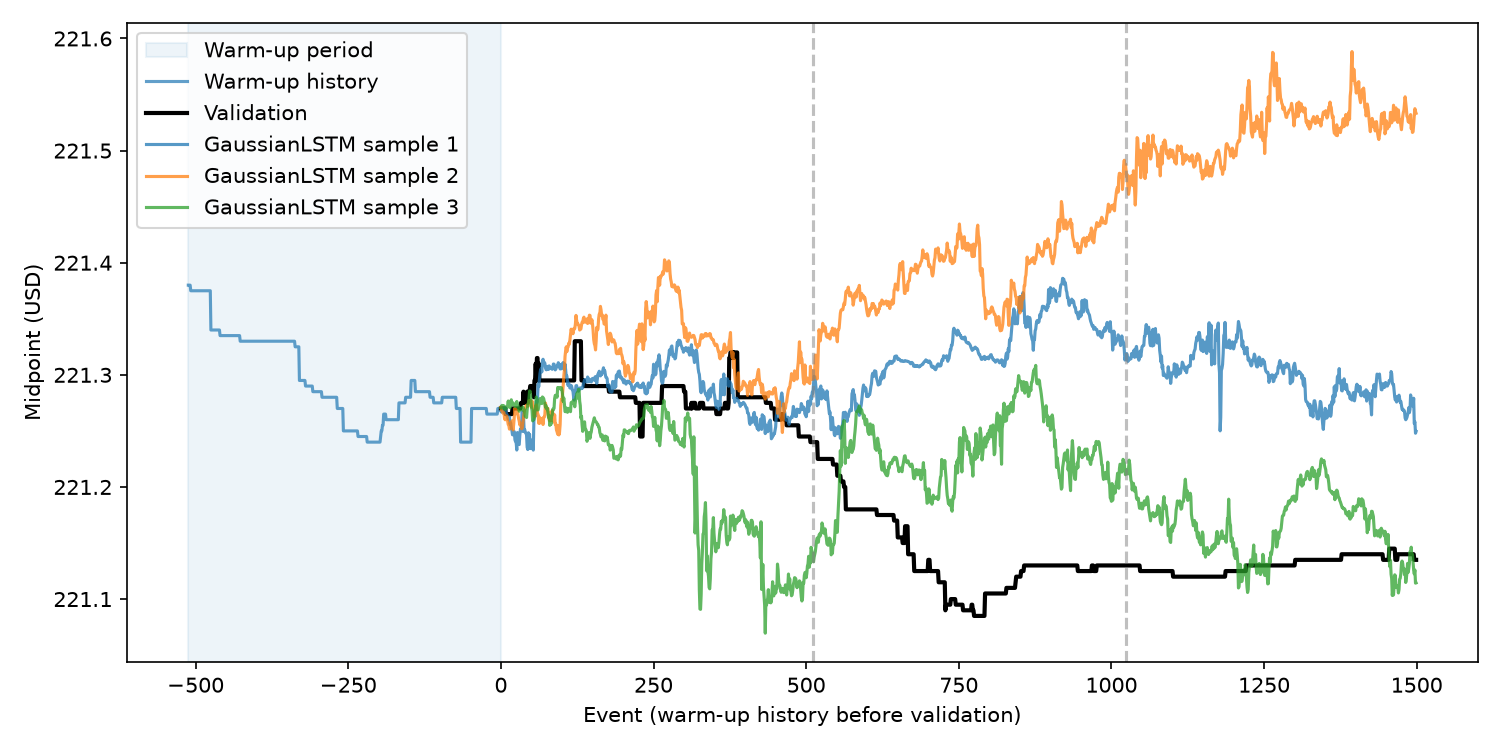
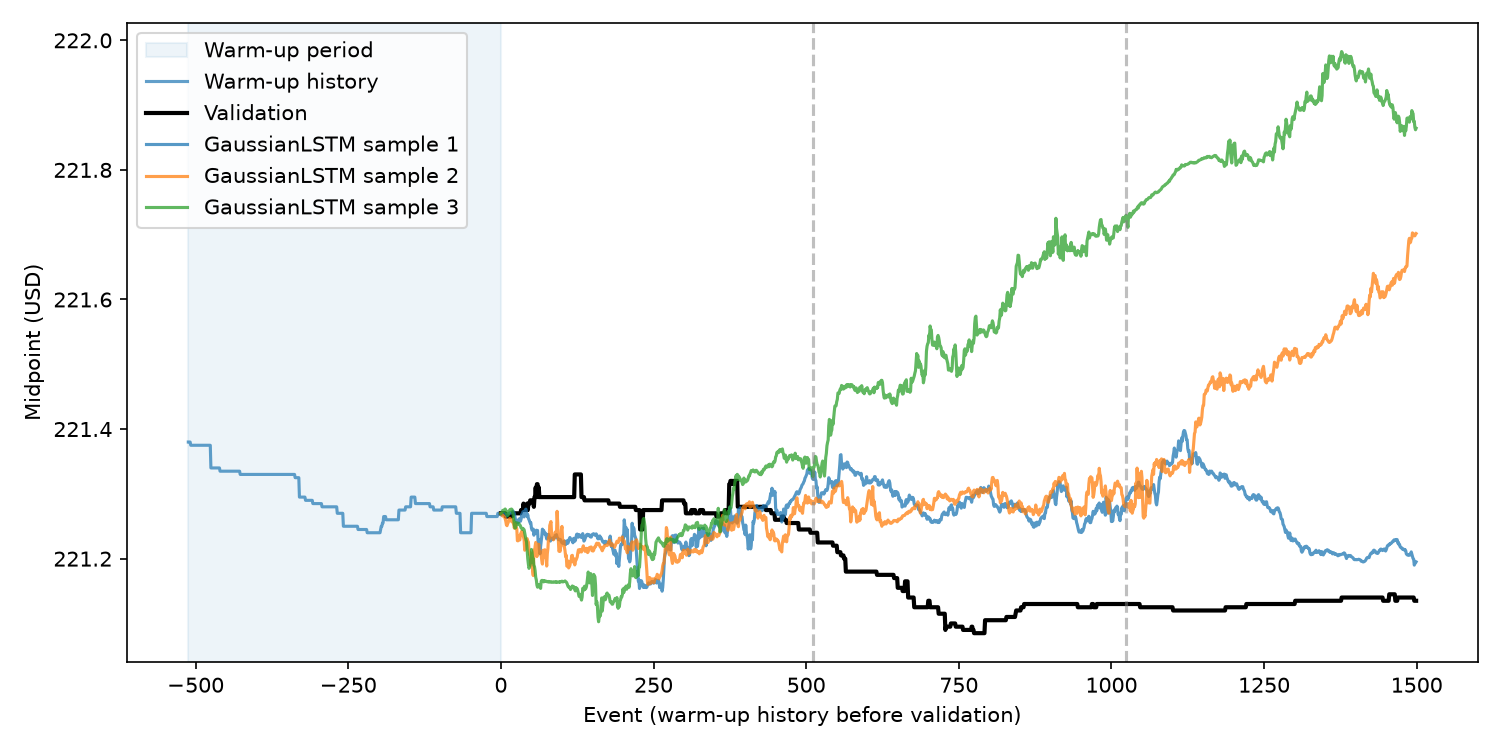
Use fixed bins for different KL loss computations

diff --git a/recognition/TimeGAN_47022315/evaluation.py b/recognition/TimeGAN_47022315/evaluation.py
@@ -6,16 +6,36 @@ from dataset import LOBSTERLevel10Dataset, load_dfs
 
 WARMUP_SIZE = 512
 NUM_SAMPLES = 3
+KL_BINS = 50
 
 
-def kl_divergence(validation_values, predicted_values, bins: int = 50) -> float:
-    """Estimate KL(validation || predicted) in nats; samples must share a scale."""
-    actual, predicted = (np.asarray(x, dtype=float).ravel() for x in (validation_values, predicted_values))
+def kl_bin_edges(reference_values, bins: int = KL_BINS) -> np.ndarray:
+    """Create reference-derived bins with open tails for out-of-range samples."""
+    reference = np.asarray(reference_values, dtype=float).ravel()
+    if reference.size == 0 or not np.isfinite(reference).all() or bins < 1:
+        raise ValueError("Reference samples must be nonempty and finite; bins must be positive.")
+    edges = np.histogram_bin_edges(reference, bins=bins)
+    edges[[0, -1]] = (-np.inf, np.inf)
+    return edges
+
+
+def training_kl_edges(training_data, bins: int = KL_BINS) -> tuple[np.ndarray, np.ndarray]:
+    """Return fixed return and spread bins derived only from the training partition."""
+    normalized = training_data.data.detach().cpu().numpy()
+    physical = normalized * training_data.std.cpu().numpy() + training_data.mean.cpu().numpy()
+    spreads = np.exp(np.clip(physical[:, 1], np.log(1e-8), np.log(np.finfo(float).max) - 1))
+    return kl_bin_edges(physical[:, 0], bins), kl_bin_edges(spreads, bins)
+
+
+def kl_divergence(reference_values, predicted_values, edges: np.ndarray) -> float:
+    """Estimate KL(reference || predicted) using explicitly shared bin edges."""
+    actual, predicted = (np.asarray(x, dtype=float).ravel() for x in (reference_values, predicted_values))
     if any(x.size == 0 or not np.isfinite(x).all() for x in (actual, predicted)):
         raise ValueError("Samples must be nonempty and finite.")
-    edges = np.histogram_bin_edges(actual, bins=bins)
-    edges[[0, -1]] = (-np.inf, np.inf)
-    # Reference-only bins are stable across models; overflow bins retain generated tails.
+    edges = np.asarray(edges, dtype=float)
+    if (edges.ndim != 1 or len(edges) < 2 or not np.all(np.diff(edges) > 0)
+            or not np.isneginf(edges[0]) or not np.isposinf(edges[-1])):
+        raise ValueError("Bin edges must be strictly increasing and include open tails.")
     p, q = (np.histogram(x, bins=edges)[0].astype(float) + 1e-8 for x in (actual, predicted))
     p, q = p / p.sum(), q / q.sum()
     return float(np.sum(p * np.log(p / q)))
@@ -102,6 +122,7 @@ if __name__ == "__main__":
     training_data = LOBSTERLevel10Dataset(split="train")
     validation_data = LOBSTERLevel10Dataset(split="validation")
     test_data = LOBSTERLevel10Dataset(split="test")
+    return_edges, spread_edges = training_kl_edges(training_data)
     split_data = {"validation": validation_data, "test": test_data}
     model = torch.load("timegan.pth", map_location="cpu", weights_only=False).eval()
 
@@ -158,8 +179,12 @@ if __name__ == "__main__":
     ]
     print(f"Generated {split_name} |return| lag-1 autocorrelation (mean of {len(predicted)} paths): "
           f"{np.mean(generated_autocorrelations):.6f}")
-    print(f"Mid-price return KL({split_name} || predicted): {kl_divergence(actual, physical_predicted[:, :, 0]):.6f} nats (50 reference bins)")
-    print(f"Spread KL({split_name} || predicted): {kl_divergence(actual_spread, predicted_spread):.6f} nats (50 reference bins)")
+    print(f"Mid-price return KL({split_name} || predicted): "
+          f"{kl_divergence(actual, physical_predicted[:, :, 0], return_edges):.6f} nats "
+          f"({KL_BINS} training-defined bins; shared across splits/models)")
+    print(f"Spread KL({split_name} || predicted): "
+          f"{kl_divergence(actual_spread, predicted_spread, spread_edges):.6f} nats "
+          f"({KL_BINS} training-defined bins; shared across splits/models)")
     print(f"Mean depth-profile SSIM: {depth_ssim(actual_depth, predicted_depth):.6f}")
     for name, sample in ((split_name.title(), (actual_asks, actual_bids, actual_ask_sizes, actual_bid_sizes)),
                          ("Generated", predicted_book)):

diff --git a/recognition/TimeGAN_47022315/lstm.py b/recognition/TimeGAN_47022315/lstm.py
@@ -40,12 +40,14 @@ def sample_features(
 
 if __name__ == "__main__":
     from dataset import LOBSTERLevel10Dataset, WindowDataset, load_dfs
-    from evaluation import (absolute_return_autocorrelation, book_arrays, depth_ssim,
-                            kl_divergence, reconstruct_book, structural_violation_rates)
+    from evaluation import (KL_BINS, absolute_return_autocorrelation, book_arrays, depth_ssim,
+                            kl_divergence, reconstruct_book, structural_violation_rates,
+                            training_kl_edges)
     from torch.utils.data import DataLoader
     import numpy as np
     import matplotlib.pyplot as plt
 
+    torch.manual_seed(0)
     device = torch.device("cuda" if torch.cuda.is_available() else "cpu")
     dtype = torch.float32
 
@@ -83,6 +85,7 @@ if __name__ == "__main__":
     feature_mean = training_data.mean.numpy()
     feature_std = training_data.std.numpy()
     train_end = len(training_data)
+    return_edges, spread_edges = training_kl_edges(training_data)
     model.eval().cpu()
     predictions = {}
     for name, evaluation_data, warmup_data in (
@@ -111,13 +114,13 @@ if __name__ == "__main__":
               f"{1_000 * generation_seconds / generated_events:.3f} ms/event; "
               f"throughput {generated_events / generation_seconds:.1f} events/s")
         print(f"Mid-price return KL({name} || predicted): "
-              f"{kl_divergence(actual_features[:, 0], raw_predictions[:, :, 0]):.6f} nats "
-              f"(50 reference bins; {num_samples} paths)")
+              f"{kl_divergence(actual_features[:, 0], raw_predictions[:, :, 0], return_edges):.6f} nats "
+              f"({KL_BINS} training-defined bins; {num_samples} paths)")
         actual_spread = np.exp(np.clip(actual_features[:, 1], np.log(1e-8), np.log(np.finfo(float).max) - 1))
         predicted_spread = np.exp(np.clip(raw_predictions[:, :, 1], np.log(1e-8), np.log(np.finfo(float).max) - 1))
         print(f"Spread KL({name} || predicted): "
-              f"{kl_divergence(actual_spread, predicted_spread):.6f} nats "
-              f"(50 reference bins; {num_samples} paths)")
+              f"{kl_divergence(actual_spread, predicted_spread, spread_edges):.6f} nats "
+              f"({KL_BINS} training-defined bins; {num_samples} paths)")
         actual_returns = evaluation_data.data[:, 0].numpy() * feature_std[0] + feature_mean[0]
         generated_correlations = [absolute_return_autocorrelation(sample[:, 0]) for sample in raw_predictions]
         print(f"|return| lag-1 autocorrelation: actual {absolute_return_autocorrelation(actual_returns):.6f}; "

diff --git a/recognition/TimeGAN_47022315/README.md b/recognition/TimeGAN_47022315/README.md
@@ -143,10 +143,12 @@ The two are separated such that the training set is chronologically first, the v
 
 Despite introducing a KL loss term to TimeGAN, target KL loss of 0.1 was not able to be achieved.
 
-* TimeGAN mid-price return KL (50 bins): 1.201405 nats (validation); 1.045288 nats (test).
-* TimeGAN spread KL (50 bins): 1.412363 nats (validation); 2.612912 nats (test).
-* Baseline LSTM mid-price return KL (50 bins): 0.785493 nats (validation); 0.874616 nats (test).
-* Baseline LSTM spread KL (50 bins): 0.097118 nats (validation); 0.270768 nats (test).
+KL estimates use 50 equal-width bins defined from the training partition for each metric, with open-ended outer bins; the same edges are used for both models and evaluation splits. The baseline LSTM was trained with random seed 0.
+
+* TimeGAN mid-price return KL: 0.738256 nats (validation); 0.750369 nats (test).
+* TimeGAN spread KL: 0.725173 nats (validation); 1.265459 nats (test).
+* Baseline LSTM mid-price return KL: 0.541497 nats (validation); 0.530057 nats (test).
+* Baseline LSTM spread KL: 0.133170 nats (validation); 0.300071 nats (test).
 * Mean depth-profile SSIM: 0.929437 (validation); 0.865365 (test).
 * Absolute log-return lag-1 autocorrelation: 0.261066 (training); 0.809915 (generated validation); 0.809918 (generated test).
 * Structural violation rates: 0.0000% for all reported categories on validation, test, and generated books.
